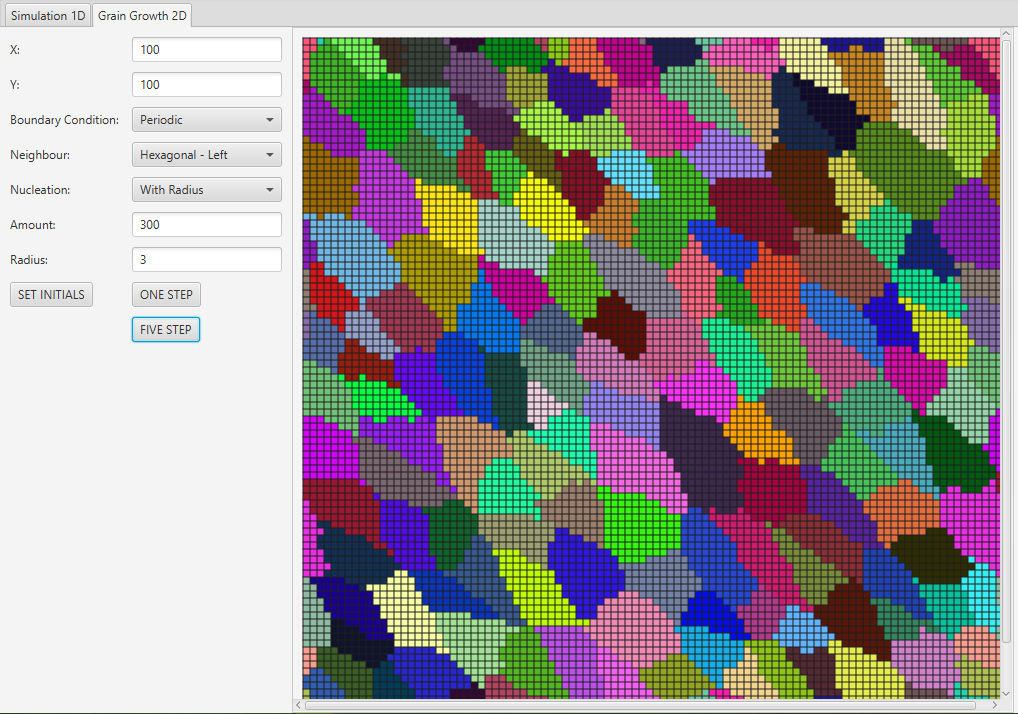
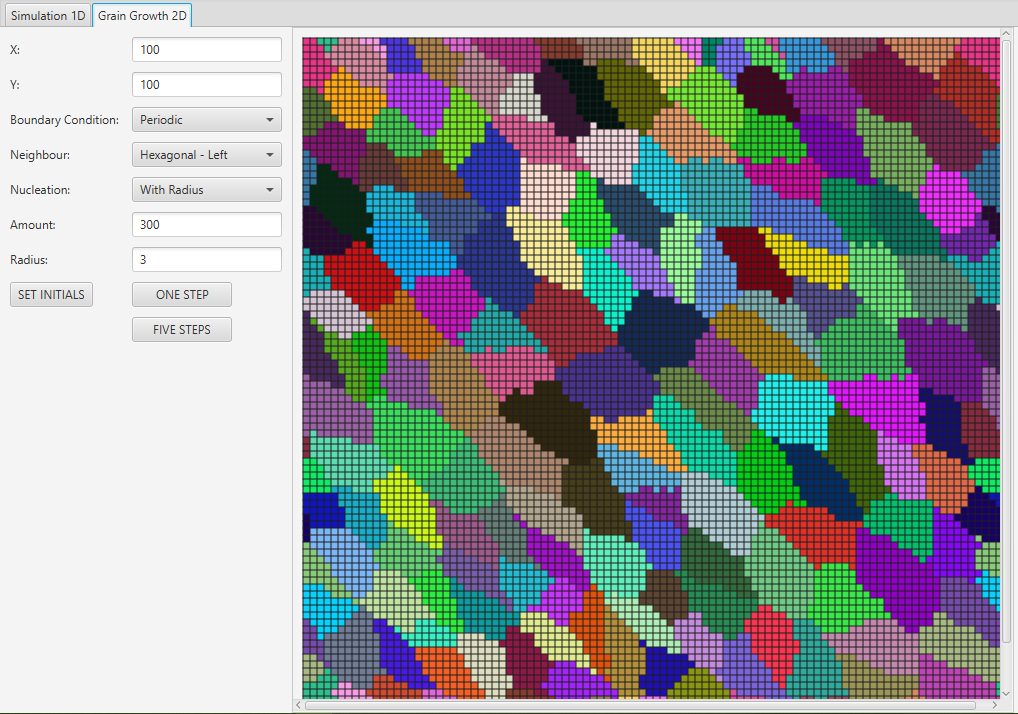
Update photos

diff --git a/src/main/java/sample/twoDimensionalGrainGrowth/Board.java b/src/main/java/sample/twoDimensionalGrainGrowth/Board.java
@@ -59,19 +59,21 @@ public class Board {
 		this.nucleationComboBox.setValue("Homogeneous");
 		this.neighbourComboBox.setValue("Von Neumann");
 
+		//button
+		this.oneStepButton = new Button("ONE STEP");
+		this.setInitialsButton = new Button("SET INITIALS");
+		this.fiveStepsButton = new Button("FIVE STEPS");
+
 		//settings
 		this.boundaryConditionComboBox.setMaxSize(150,10);
 		this.nucleationComboBox.setMaxSize(150,10);
 		this.neighbourComboBox.setMaxSize(150,10);
 		this.cellsGrid.setPadding(new Insets(10));
+		this.oneStepButton.setMaxSize(100,10);
+		this.fiveStepsButton.setMaxSize(100,10);
 		menuGrid.setPadding(new Insets(10));
 		menuGrid.setHgap(10);
 		menuGrid.setVgap(10);
-
-		//button
-		this.oneStepButton = new Button("ONE STEP");
-		this.setInitialsButton = new Button("SET INITIALS");
-		this.fiveStepsButton = new Button("FIVE STEPS");
 
 		menuGrid.addColumn(0,xSizeLabel,ySizeLabel,boundaryConditionLabel,neighbourLabel,nucleationLabel,this.changeableFirstLabel,this.changeableSecondLabel,this.setInitialsButton);
 		menuGrid.addColumn(1,this.xSizeField,this.ySizeField,this.boundaryConditionComboBox,this.neighbourComboBox,this.nucleationComboBox,changeableFirstField,changeableSecondField,this.oneStepButton,this.fiveStepsButton);
